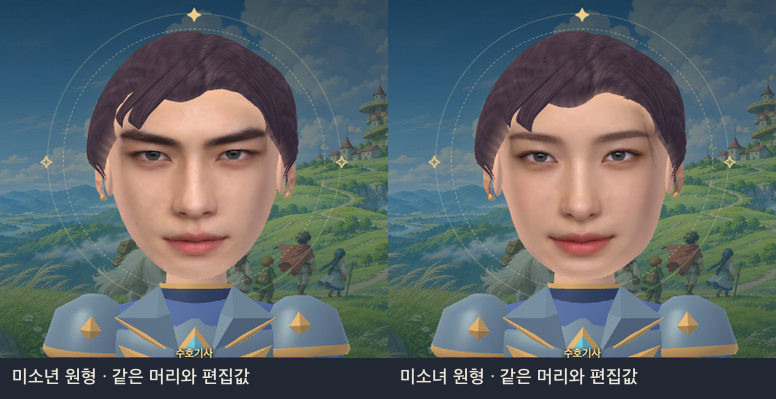
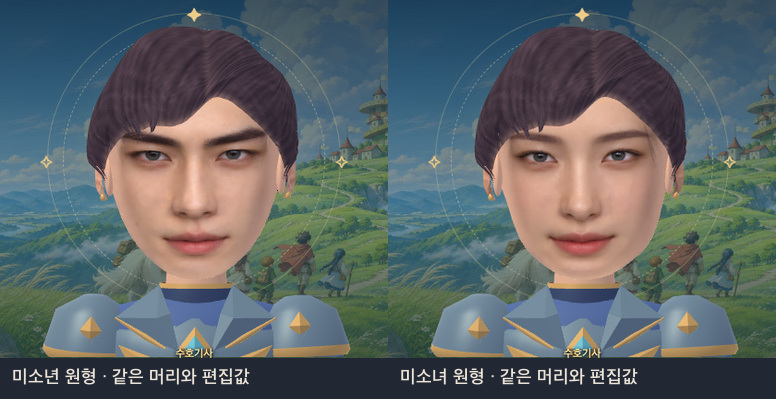
새 얼굴에 네 헤어 모듈을 연결하고 공방 실측 화면을 기록한다

diff --git a/assets/avatar/art/portrait.js b/assets/avatar/art/portrait.js
@@ -1,297 +1,13 @@
+import { BONE } from './sculpt.js';
 import { sculptFace, sculptEars } from './face.js';
-import { BONE, TAU, add, cross, dye, mul, rgb, sub, unit } from './sculpt.js';
-
-const clamp = (x) => Math.max(0, Math.min(1, x));
-const smooth = (x) => {
-  const f = clamp(x);
-  return f * f * (3 - 2 * f);
-};
-// 머릿결의 단면을 매끄럽게 이어 측면에서도 다발이 꺾이지 않게 한다.
-function spline(points, t) {
-  const at = clamp(t) * (points.length - 1),
-    i = Math.min(points.length - 2, Math.floor(at)),
-    f = at - i;
-  const a = points[Math.max(0, i - 1)],
-    b = points[i],
-    c = points[i + 1],
-    d = points[Math.min(points.length - 1, i + 2)];
-  return b.map(
-    (v, k) =>
-      v +
-      0.5 * f * (c[k] - a[k] + f * (2 * a[k] - 5 * v + 4 * c[k] - d[k] + f * (3 * v - 3 * c[k] + d[k] - a[k]))),
-  );
-}
-
-// 각 다발은 매끄러운 중심선과 길이 방향의 색 변화를 가진 타원 단면으로 만든다.
-function silk(m, knots, hair, outward = [0, 0, 1], lightness = 0) {
-  const rows = (knots.length - 1) * 5;
-  const sections = Array.from({ length: rows + 1 }, (_, i) => {
-    const t = i / rows,
-      p = spline(knots, t),
-      a = spline(knots, Math.max(0, t - 0.003)),
-      b = spline(knots, Math.min(1, t + 0.003));
-    const axis = unit(sub(b.slice(0, 3), a.slice(0, 3))),
-      right = unit(cross(axis, outward)),
-      normal = unit(cross(right, axis));
-    return [p, right, normal];
-  });
-  const ribbon = (u, v, bias = 0) => {
-    const [p, right, normal] = sections[Math.round(v * rows)],
-      t = u * TAU;
-    return add(
-      p.slice(0, 3),
-      add(
-        mul(right, Math.sin(t) * Math.max(0.0005, p[3])),
-        mul(normal, Math.cos(t) * Math.max(0.0005, p[4]) + bias),
-      ),
-    );
-  };
-  m.surface(
-    20,
-    rows,
-    ribbon,
-    (_, u, v) => {
-      const ridge = (0.5 + 0.5 * Math.cos(TAU * (u * 5 + 0.21 * Math.sin(v * 4)))) ** 5;
-      const sheen = 0.055 * Math.exp(-(((v - 0.43) / 0.21) ** 2));
-      return dye(hair, '#d6b8bb', lightness + 0.078 * ridge + sheen);
-    },
-    0.46,
-  );
-  // 넓은 다발 위에 폭과 길이가 다른 실크 광택 두 줄을 얹는다.
-  for (const [offset, span] of [
-    [-0.079, 0.032],
-    [0.052, 0.016],
-  ]) {
-    m.surface(
-      5,
-      rows,
-      (u, v) => {
-        const t = offset + 0.025 * Math.sin(v * 4 + 0.6) + (u - 0.5) * span * Math.sin(Math.PI * v) ** 0.68;
-        return ribbon(t, v, 0.003);
-      },
-      (_, u, v) => dye(hair, '#dac2c0', 0.055 + 0.17 * Math.sin(v * Math.PI) ** 2 * Math.sin(u * Math.PI)),
-      0.38,
-      false,
-    );
-  }
-}
-
-function sculptHair(m, a, hair) {
-  const style = a.hairStyle,
-    long = style === 2,
-    root = dye(hair, '#271f30', 0.15);
-  m.surface(
-    112,
-    32,
-    (u, v) => {
-      const t = TAU * u,
-        f = 1 - v,
-        wave = t + (1 - f) * (0.97 + 0.18 * Math.sin(t));
-      const end = 1.76 - 0.74 * Math.cos(t) + 0.087 * Math.sin(5 * t + 0.3);
-      const phi = 0.003 + f * end;
-      const groove = 0.012 * Math.cos(14 * t + 0.46 * Math.sin(t * 3)) + 0.004 * Math.cos(29 * t);
-      const r = Math.sin(phi) * (1 + groove * f);
-      return [Math.sin(wave) * r * 0.443, 0.096 + Math.cos(phi) * 0.485, -0.034 + Math.cos(wave) * r * 0.424];
-    },
-    (_, u, v) => dye(root, '#c3a2a7', 0.06 * (0.5 + 0.5 * Math.cos(TAU * (u * 14 + 0.18 * (1 - v))))),
-    0.39,
-  );
-  const flip = style === 3 ? -1 : 1;
-  const strand = (pts, tint = hair, amount = 0, guide = [0, 0, 1]) =>
-    silk(
-      m,
-      pts.map(([x, y, z, w, d]) => [flip * x, y, z, w, d]),
-      tint,
-      guide,
-      amount,
-    );
-  // 여덟 방향의 뒷단이 둥근 두상을 감싸고 목덜미에서 서로 다른 길이로 끝난다.
-  for (let i = 0; i < 11; i++) {
-    const t = 0.98 + (i * (TAU - 1.96)) / 10,
-      sn = Math.sin(t),
-      cs = Math.cos(t);
-    const earOpening = long ? 0 : Math.exp(-((Math.abs(Math.cos(t)) / 0.34) ** 2));
-    const start = t + 0.53,
-      endY = long ? -0.35 : -0.235 - 0.065 * Math.cos(3 * t) + 0.25 * earOpening;
-    const p = [
-      [0.21 * Math.sin(start), 0.5, -0.024 + 0.18 * Math.cos(start), 0.064, 0.022],
-      [0.378 * Math.sin(t + 0.26), 0.342, -0.029 + 0.345 * Math.cos(t + 0.26), 0.111, 0.035],
-      [0.437 * sn, 0.128, -0.03 + 0.401 * cs, 0.117, 0.037],
-      [
-        0.429 * Math.sin(t - 0.1),
-        -0.046 + 0.13 * earOpening,
-        -0.03 + 0.388 * Math.cos(t - 0.1) - 0.023 * earOpening,
-        0.097,
-        0.035,
-      ],
-      [0.37 * Math.sin(t - 0.18), endY + 0.066, -0.022 + 0.335 * Math.cos(t - 0.18), 0.049, 0.021],
-      [0.346 * Math.sin(t - 0.26), endY, -0.018 + 0.31 * Math.cos(t - 0.26), 0.001, 0.001],
-    ];
-    silk(m, p, i % 3 === 0 ? root : hair, [sn, 0.04, cs], (i % 3) * 0.009);
-  }
-  if (long) {
-    // 높이 묶은 머리의 두 갈래가 어깨 뒤로 돌아 사선·측면에서도 긴 흐름이 남는다.
-    m.ball([0.017, 0.321, -0.366], [0.125, 0.074, 0.098], rgb('#c5a06d'), 0.58);
-    for (const s of [-1, 1]) {
-      strand(
-        [
-          [0.012, 0.344, -0.384, 0.068, 0.07],
-          [s * 0.065, 0.401, -0.481, 0.117, 0.104],
-          [s * 0.129, 0.255, -0.559, 0.134, 0.114],
-          [s * 0.193, 0.028, -0.533, 0.133, 0.098],
-          [s * 0.276, -0.198, -0.424, 0.119, 0.08],
-          [s * 0.327, -0.391, -0.291, 0.085, 0.057],
-          [s * 0.302, -0.526, -0.213, 0.043, 0.025],
-          [s * 0.249, -0.611, -0.161, 0.001, 0.001],
-        ],
-        hair,
-        0.018,
-        [s * 0.34, 0, -1],
-      );
-    }
-  }
-  const lock = (pts, tint = hair, lightness = 0.012) => strand(pts, tint, lightness);
-  if (long) {
-    lock(
-      [
-        [-0.015, 0.512, 0.123, 0.028, 0.012],
-        [-0.036, 0.449, 0.242, 0.042, 0.025],
-        [-0.097, 0.356, 0.329, 0.044, 0.027],
-        [-0.187, 0.275, 0.362, 0.031, 0.021],
-        [-0.231, 0.19, 0.356, 0.014, 0.009],
-        [-0.224, 0.144, 0.354, 0.001, 0.001],
-      ],
-      hair,
-      0.035,
-    );
-    lock(
-      [
-        [0.009, 0.512, 0.126, 0.031, 0.013],
-        [0.084, 0.424, 0.271, 0.047, 0.028],
-        [0.169, 0.343, 0.322, 0.045, 0.024],
-        [0.243, 0.286, 0.337, 0.031, 0.018],
-        [0.269, 0.226, 0.327, 0.001, 0.001],
-      ],
-      hair,
-      0.035,
-    );
-    // 가르마에서 양 볼을 따라 턱 옆으로 휘는 긴 옆머리.
-    for (const s of [-1, 1]) {
-      lock(
-        [
-          [s * 0.005, 0.53, 0.102, 0.042, 0.016],
-          [s * 0.09, 0.451, 0.254, 0.099, 0.035],
-          [s * 0.209, 0.329, 0.326, 0.098, 0.046],
-          [s * 0.338, 0.185, 0.27, 0.078, 0.042],
-          [s * 0.379, 0.027, 0.209, 0.056, 0.033],
-          [s * 0.352, -0.137, 0.228, 0.046, 0.022],
-          [s * 0.317, -0.259, 0.229, 0.033, 0.017],
-          [s * 0.327, -0.356, 0.171, 0.001, 0.001],
-        ],
-        hair,
-        s > 0 ? 0.024 : 0.008,
-      );
-      lock(
-        [
-          [s * 0.083, 0.502, 0.157, 0.029, 0.012],
-          [s * 0.159, 0.383, 0.287, 0.05, 0.028],
-          [s * 0.228, 0.278, 0.34, 0.043, 0.023],
-          [s * 0.291, 0.211, 0.32, 0.026, 0.012],
-          [s * 0.31, 0.127, 0.3, 0.001, 0.001],
-        ],
-        root,
-        0.014,
-      );
-    }
-  } else {
-    lock(
-      [
-        [0.151, 0.48, 0.141, 0.021, 0.013],
-        [0.112, 0.565, 0.134, 0.032, 0.016],
-        [0.041, 0.59, 0.101, 0.031, 0.016],
-        [-0.051, 0.582, 0.065, 0.018, 0.011],
-        [-0.093, 0.562, 0.043, 0.001, 0.001],
-      ],
-      hair,
-      0.025,
-    );
-    // 소년풍 앞머리는 비스듬한 가르마에서 바람결처럼 겹쳐 내려온다.
-    for (let i = 0; i < 4; i++) {
-      const k = i / 3;
-      lock(
-        [
-          [0.164 - 0.045 * k, 0.5 + 0.014 * k, 0.145, 0.035, 0.016],
-          [0.131 - 0.083 * k, 0.443 + 0.003 * k, 0.265, 0.078, 0.043],
-          [0.058 - 0.175 * k, 0.341 + 0.031 * k, 0.355 - 0.02 * k, 0.081, 0.044],
-          [-0.037 - 0.209 * k, 0.261 + 0.017 * k, 0.394 - 0.048 * k, 0.067, 0.038],
-          [-0.089 - 0.21 * k, 0.173 - 0.032 * k, 0.403 - 0.078 * k, 0.038, 0.022],
-          [-0.148 - 0.174 * k, 0.097 - 0.035 * k, 0.386 - 0.1 * k, 0.001, 0.001],
-        ],
-        i % 2 ? hair : root,
-        i * 0.009,
-      );
-    }
-    lock([
-      [0.157, 0.498, 0.144, 0.043, 0.018],
-      [0.222, 0.409, 0.25, 0.082, 0.038],
-      [0.286, 0.299, 0.298, 0.081, 0.043],
-      [0.339, 0.205, 0.28, 0.055, 0.031],
-      [0.334, 0.112, 0.295, 0.021, 0.015],
-      [0.308, 0.068, 0.302, 0.001, 0.001],
-    ]);
-    for (const s of [-1, 1])
-      lock([
-        [s * 0.309, 0.335, 0.213, 0.06, 0.025],
-        [s * 0.386, 0.213, 0.204, 0.067, 0.031],
-        [s * 0.405, 0.068, 0.175, 0.057, 0.03],
-        [s * 0.375, -0.07, 0.179, 0.028, 0.017],
-        [s * 0.371, -0.153, 0.148, 0.001, 0.001],
-      ]);
-  }
-  if (style === 1 || style === 3) {
-    for (const s of [-1, 1]) {
-      if (style === 3) {
-        m.ball([s * 0.361, 0.318, -0.173], [0.16, 0.151, 0.146], root, 0.32, 32, 20);
-        for (let i = 0; i < 3; i++) {
-          const arc = Array.from({ length: 7 }, (_, k) => {
-            const t = (k / 6) * 3.5 + i * 1.8;
-            return [
-              s * (0.361 + 0.14 * Math.sin(t)),
-              0.318 + 0.143 * Math.cos(t),
-              -0.17 + 0.074 * Math.sin(t + i),
-              0.026,
-              0.022,
-            ];
-          });
-          silk(m, arc, hair, [s, 0, -0.3], 0.022);
-        }
-      } else {
-        for (let i = 0; i < 2; i++) {
-          const braid = Array.from({ length: 14 }, (_, k) => {
-            const t = k / 13,
-              twist = t * TAU * 2 + i * Math.PI;
-            return [
-              s * (0.36 + 0.056 * Math.sin(twist) + 0.042 * t),
-              -0.002 - 0.58 * t,
-              -0.198 + 0.052 * Math.cos(twist),
-              0.074 * (1 - 0.63 * t),
-              0.065 * (1 - 0.63 * t),
-            ];
-          });
-          silk(m, braid, hair, [s * 0.5, 0, -1], i * 0.02);
-        }
-        m.ball([s * 0.403, -0.574, -0.198], [0.045, 0.026, 0.044], rgb('#c9a86f'), 0.57);
-      }
-    }
-  }
-}
+import { sculptHair } from './hair.js';
 
 export function sculptHead(m, a, p, headY) {
   m.bone = BONE.head;
   const start = m.vertices.length;
   sculptFace(m, a, p);
   sculptEars(m, a, p);
-  sculptHair(m, a, p.hair);
+  sculptHair(m, a, p);
   for (let i = start; i < m.vertices.length; i += 11) {
     let y = m.vertices[i + 1];
     if (p.job === 'arcanist' && y > 0.27) y = 0.27 + (y - 0.27) * 0.74;

diff --git a/reports/2026-11-19-아바타-얼굴/검증.md b/reports/2026-11-19-아바타-얼굴/검증.md
@@ -1,0 +1,21 @@
+# 원화 기반 아바타 얼굴 검수
+
+왼쪽 남성·오른쪽 여성 원화에서 각각 468개 얼굴 기준점을 측정했다. 각 원형의 코끝, 눈구멍, 입술, 턱 깊이와 원본 색을 10,783개 앞얼굴 정점에 구웠다. 뒤통수까지 닫은 머리는 원형마다 14,096개 정점과 28,188개 삼각형을 쓴다. 귀는 같은 원화의 귓바퀴와 귓불을 별도 곡면에 입혔다.
+
+| 머리 로컬 좌표 | 미소년 | 미소녀 |
+| --- | --- | --- |
+| 좌우 X | −0.401 ~ +0.401 | −0.401 ~ +0.401 |
+| 아래·위 Y | −0.468 ~ +0.506 | −0.449 ~ +0.506 |
+| 뒤·앞 Z | −0.385 ~ +0.455 | −0.385 ~ +0.437 |
+
+범위는 귀와 머리카락을 제외한 기본 머리의 실측값이다. 귀 중심은 X ±0.40 부근이며, 정면은 +Z, 정수리는 +Y다. 머리 관절은 기존의 `BONE.head`를 쓴다. `sculptHair(m, appearance, palette)`에는 얼굴과 같은 로컬 좌표와 피부색을 포함한 전체 팔레트가 전달되며, 모자에 맞춘 상단 압축과 머리 높이 이동은 조형 후 공통 적용된다.
+
+두 기본형을 공방의 얼굴 확대, 좌우 회전 버튼으로 촬영했다. 같은 외형 비교에서는 턱선·코·눈매·머리·피부색·눈동자색을 그대로 두고 얼굴 원형 버튼만 바꿨다.
+
+- [공방의 프리셋 정면·사선·측면](공방-프리셋-세-각도.jpg)
+- [같은 외형에서 얼굴 원형만 바꾼 정면](같은-외형에서-원형-비교.jpg)
+- [기존 조형과 교체 후 정면 비교](교체-전후-정면.jpg)
+
+왼쪽·오른쪽 원화와 Google MediaPipe 얼굴 측정 가중치의 SHA-256을 제작 도구가 확인한다. 측정 가중치는 제작 때만 필요하다. 원화와 재생성 도구는 `scripts/avatar-face/`에 있다. 실행 시에는 같은 출처의 정적 자바스크립트에 포함된 형상·색 데이터만 읽는다. 크롬과 모바일 웹킷, 그래픽 가속 손실 후 대체 렌더러, 네트워크를 끊은 소프트웨어 동기 촬영, 네 외형의 ZIP·투명 PNG, 데스크톱·모바일 회원 저장본의 재렌더를 검증했다.
+
+단위 테스트 221개, 보안 단위 테스트 40개, 독립 HTTP 검사 70개가 통과했다. 두 원형·네 직업·네 머리·조형 슬라이더 양 끝의 64개 조합도 16비트 정점 인덱스 범위에서 그려졌다.
